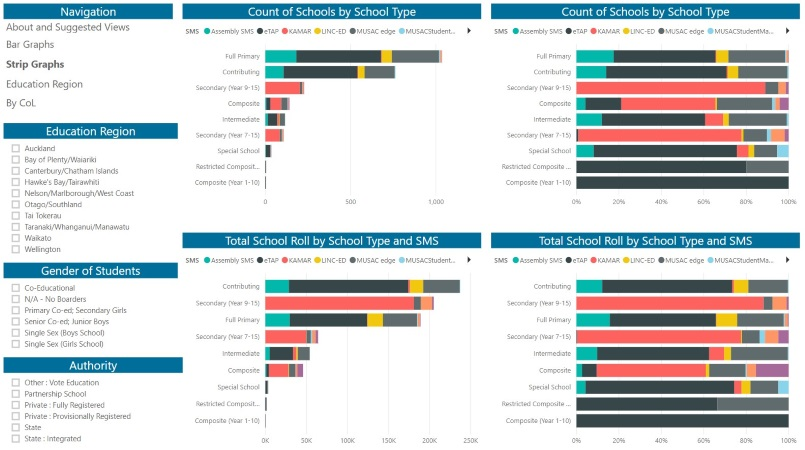
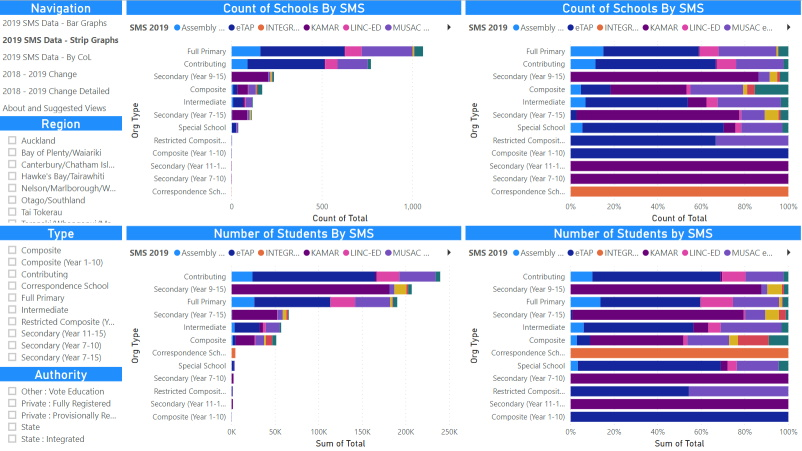
update

diff --git a/powerbi.html b/powerbi.html
@@ -81,7 +81,7 @@ See second page for custom map visuals. Also published on <a href='https://www.e
 <a href="https://stats.jpw.nz" target='_blank'><img class=half src='powerbi3.jpg'></a><br>
 <br>
 <b>Which SMS Schools are Using - As at July 2018 - Data from an OIA Request</b><br>
-<a href="https://app.powerbi.com/view?r=eyJrIjoiOGQzZDZkN2QtNGI3NS00YTYwLTgwNTItYmM4YzZhM2QzODBkIiwidCI6IjU5MzFiMzg0LWFhNDEtNDI0Ni1iZTMzLWUxOGQwMzg2ZWQzNCJ9" target='_blank'><img class=half src='powerbi4.jpg'></a><br>
+<a href="https://app.powerbi.com/view?r=eyJrIjoiNzYwZDNmM2ItOTc1OC00ZGRkLTk5NzktZjRlYTJkN2FjOTlhIiwidCI6IjU5MzFiMzg0LWFhNDEtNDI0Ni1iZTMzLWUxOGQwMzg2ZWQzNCJ9" target='_blank'><img class=half src='powerbi4.jpg'></a><br>
 <br>
 <b>Students Enrolled In  - As at July 2018 - Using Public Data from Educaiton Counts</b><br>
 <a href="https://app.powerbi.com/view?r=eyJrIjoiZWFlZjJjZWMtZWI4Zi00ZjU5LWI0ZjktYzE4MWQwOWY4YjlmIiwidCI6IjU5MzFiMzg0LWFhNDEtNDI0Ni1iZTMzLWUxOGQwMzg2ZWQzNCJ9" target='_blank'><img class=half src='powerbi5.jpg'></a><br>
